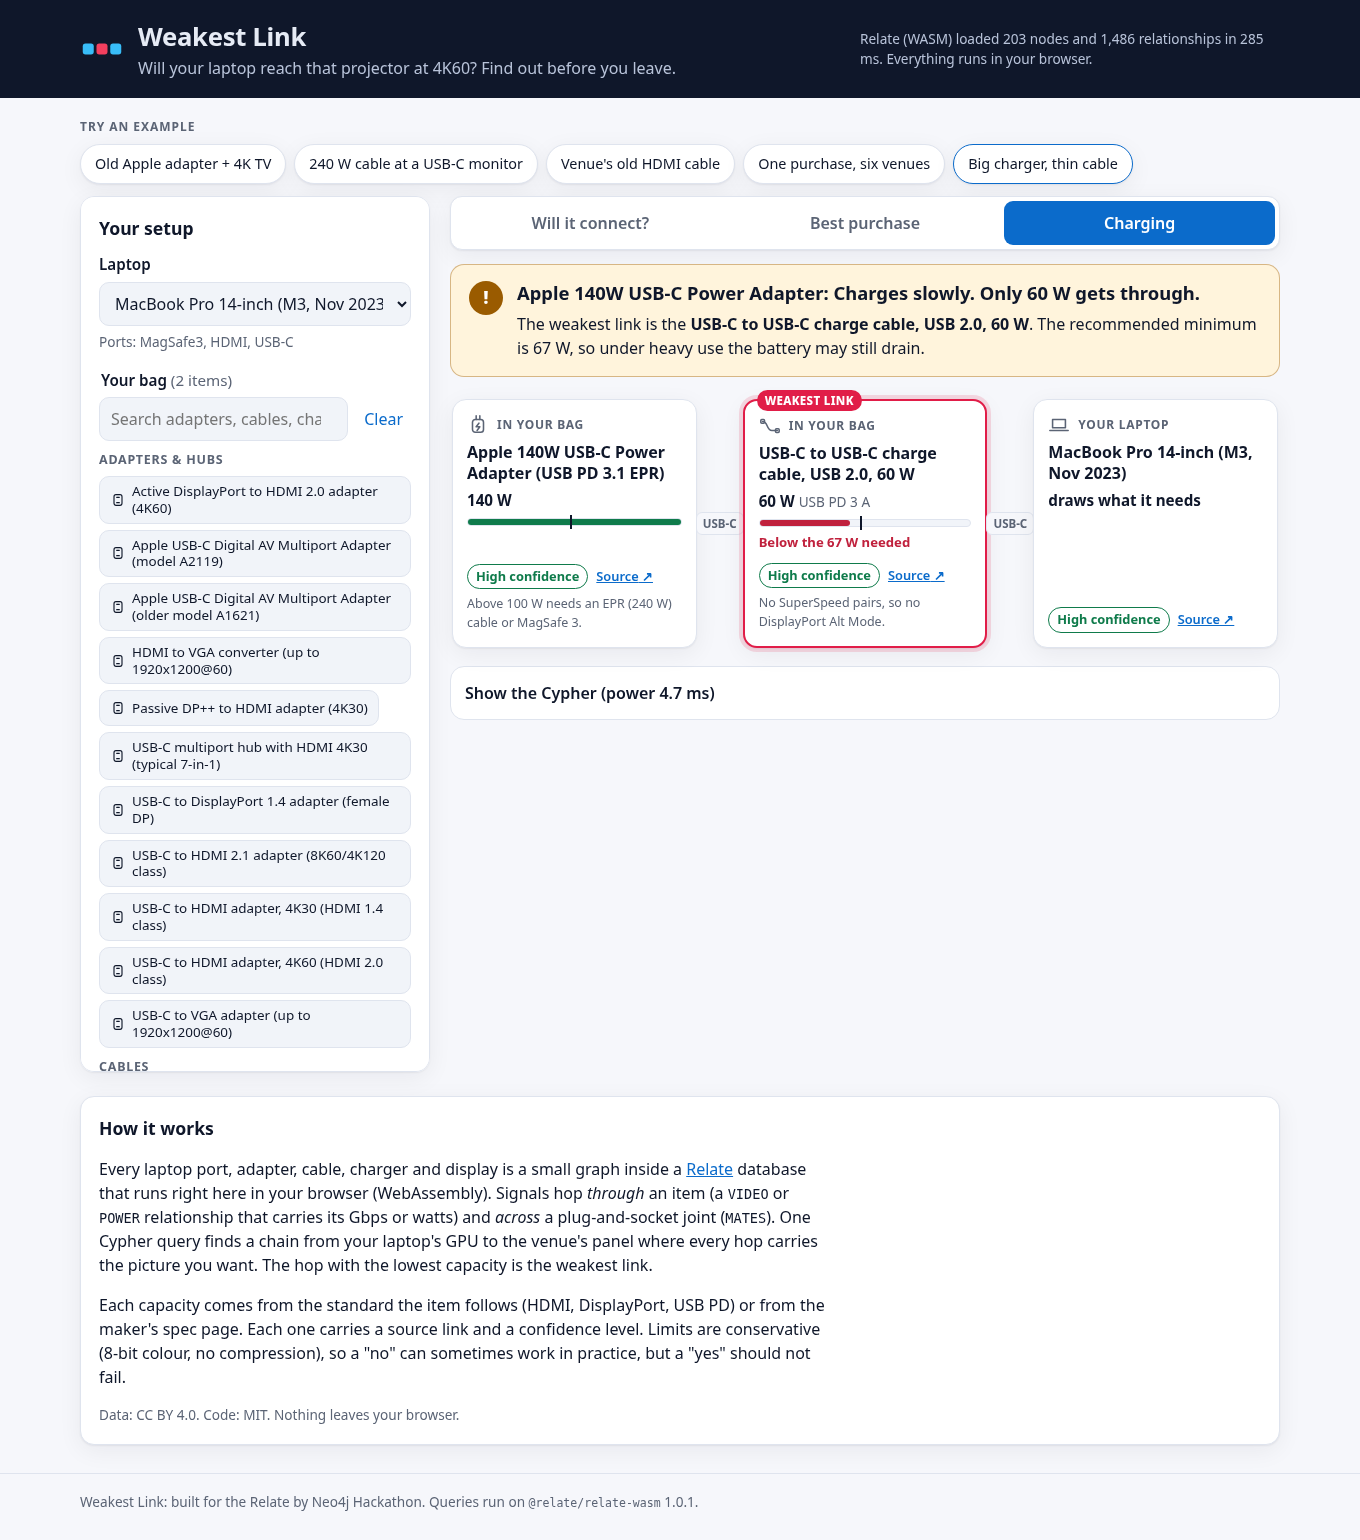
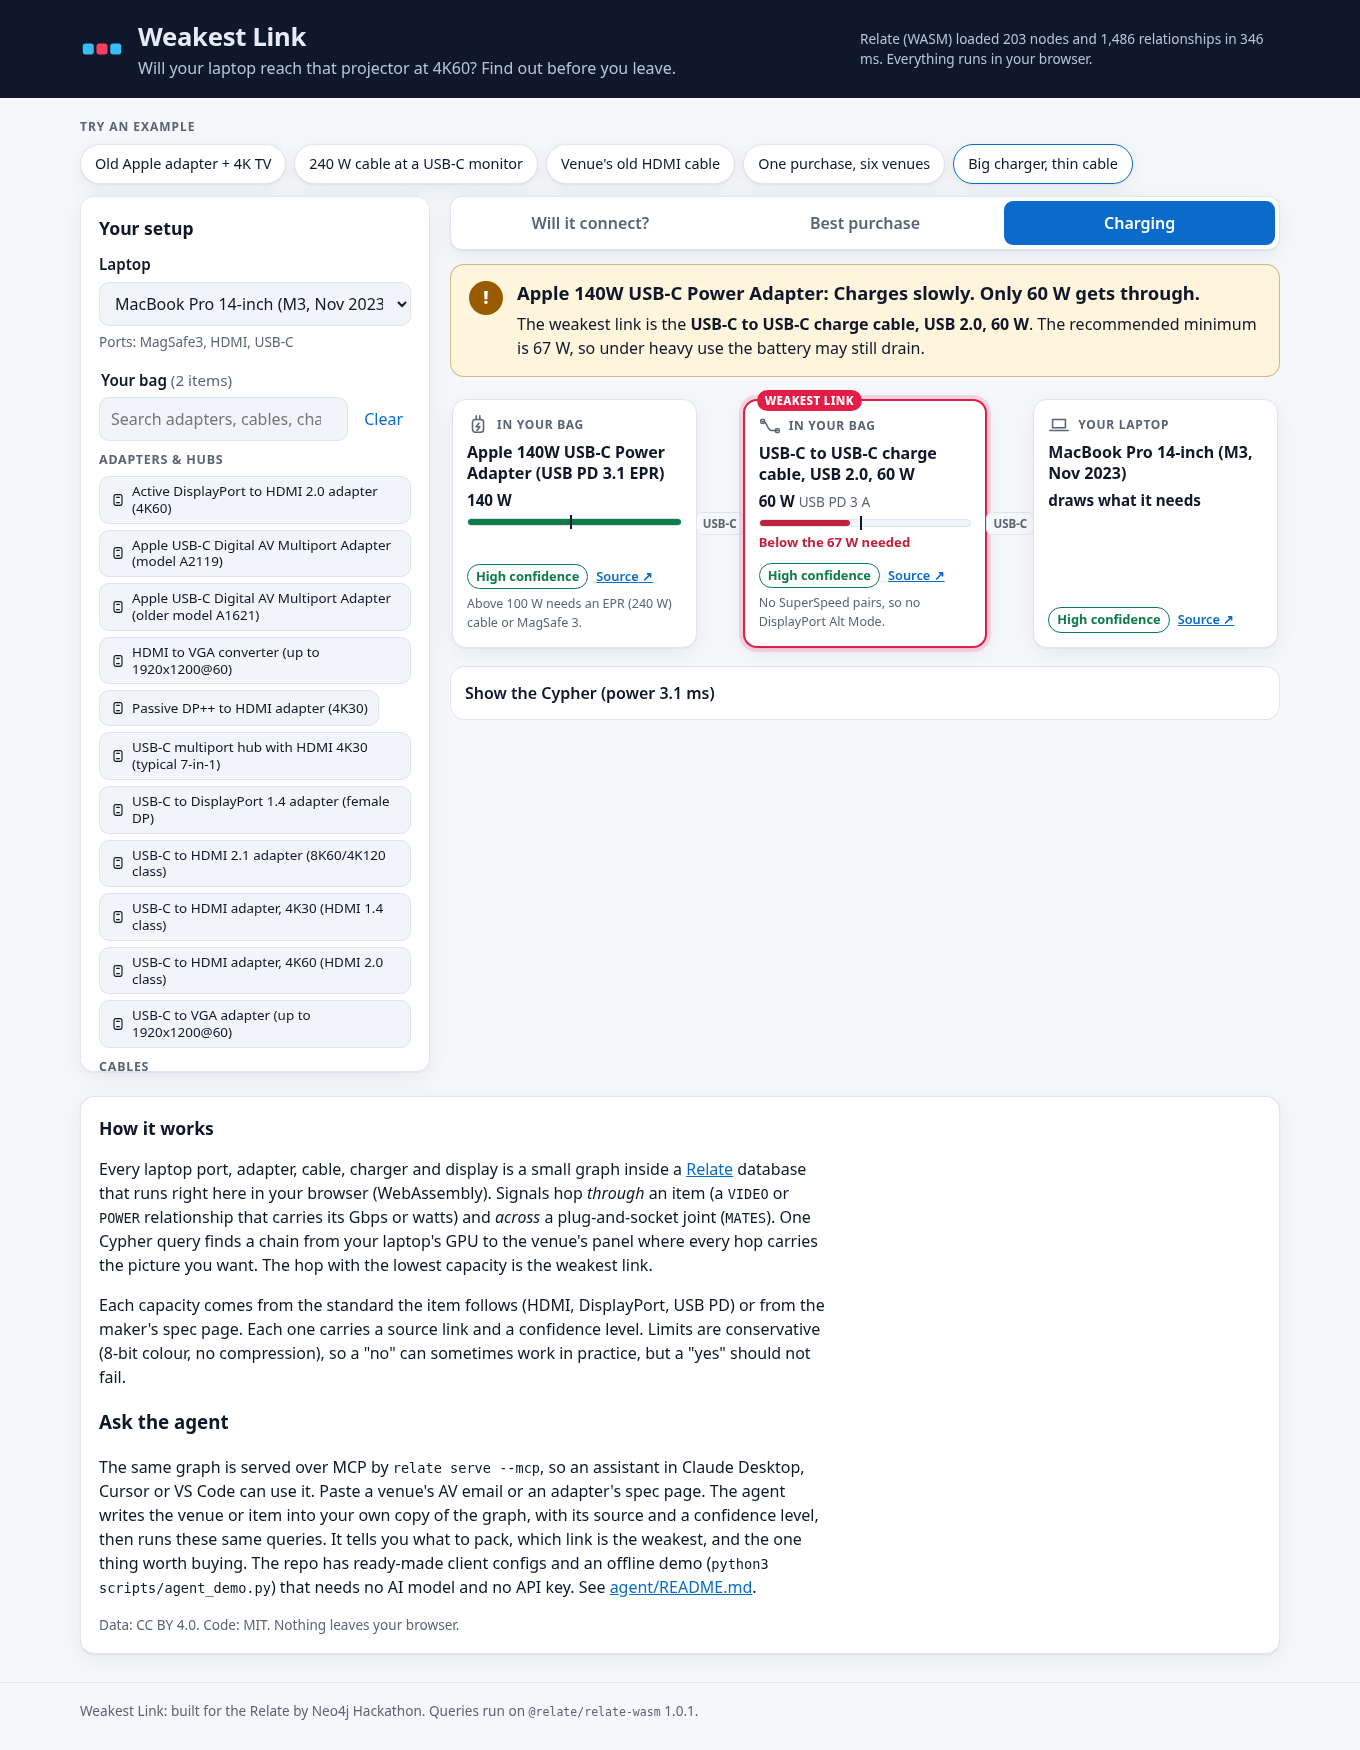
Ask the agent: README and UI How-it-works sections, schema notes for ingested data and recipes, npm agent scripts, CI template in deploy/

diff --git a/web/index.html b/web/index.html
@@ -99,6 +99,13 @@
       <p>Each capacity comes from the standard the item follows (HDMI, DisplayPort, USB PD) or from the maker's spec page.
         Each one carries a source link and a confidence level. Limits are conservative (8-bit colour, no compression), so a "no" can sometimes
         work in practice, but a "yes" should not fail.</p>
+      <h3 id="agent-h">Ask the agent</h3>
+      <p>The same graph is served over MCP by <code>relate serve --mcp</code>, so an assistant in Claude Desktop, Cursor or
+        VS Code can use it. Paste a venue's AV email or an adapter's spec page. The agent writes the venue or item into
+        your own copy of the graph, with its source and a confidence level, then runs these same queries. It tells you
+        what to pack, which link is the weakest, and the one thing worth buying. The repo has ready-made client configs and
+        an offline demo (<code>python3 scripts/agent_demo.py</code>) that needs no AI model and no API key. See
+        <a href="https://github.com/suganthikannan093-hue/weakest-link/blob/main/agent/README.md">agent/README.md</a>.</p>
       <p class="hint">Data: CC BY 4.0. Code: MIT. Nothing leaves your browser.</p>
     </section>
   </main>

diff --git a/README.md b/README.md
@@ -4,8 +4,8 @@ Find out before you leave whether your laptop will reach that projector at 4K60.
 see which adapter, cable or charger in your bag is the weakest link, and the one purchase that fixes
 the most venues.
 
-> Status: milestones 1 and 2 done (graph, cited dataset, queries, tests, browser UI). The "pack my
-> bag" agent is next, see [PLAN.md](PLAN.md).
+> Status: milestones 1–3 done (graph, cited dataset, queries, browser UI, and the "pack my bag" agent
+> over Relate MCP). See [PLAN.md](PLAN.md).
 
 ![The weakest link highlighted in a laptop-to-TV chain](docs/screenshots/desktop-connect-weakest-link.png)
 
@@ -44,7 +44,8 @@ question, with watts, answers "will this charger and cable fast-charge my laptop
 - **Relate features used:** quantified path patterns with inline predicates, `SHORTEST 1`,
   `reduce()` over relationships for the bottleneck, `all()` over path nodes, `EXISTS {}` and
   `CALL () {}` subqueries, pattern comprehensions, aggregation, indexes, `--fetch-params` JSON import,
-  and `relate serve --mcp` (`get_schema`, `read_cypher`) for the agent.
+  and `relate serve --mcp` for the agent: `get_schema` and `read_cypher` on the read-only catalog,
+  plus `write_cypher` on a writable copy that ingests venues and items from emails and spec pages.
 
 ## Setup and run
 
@@ -65,7 +66,7 @@ python3 scripts/wl.py best_fix --laptop mba-m2 --bag adp-apple-av-a1621 --venues
 python3 scripts/wl.py power  --laptop mbp14-m3 --bag chg-apple-140w,cable-usbc-usb2-60w
 python3 scripts/wl.py list   # every laptop, item and venue id
 
-# tests: 22 query tests on the .rl store, then CLI vs WASM parity
+# tests: 43 Python tests (22 queries on the .rl store, 21 agent/MCP flow), then CLI vs WASM parity
 python3 -m unittest -v
 npm install && node tests/wasm_parity.mjs
 
@@ -129,6 +130,43 @@ To deploy to GitHub Pages, copy [`deploy/github-pages.yml`](deploy/github-pages.
 hand (it is `workflow_dispatch` only). The Vite build uses relative paths (`base: './'`), so it works
 under `/weakest-link/`.
 
+## Ask the agent
+
+A "pack my bag" agent works over Relate's own MCP server, and no paid API is needed. Paste a venue's AV
+email or an adapter's spec page into Claude Desktop, Cursor, VS Code or Claude Code. The agent writes
+the venue or item into a writable copy of the graph, with its source and a confidence level, then runs
+`reach`, `chains`, `best_fix` and `power`. It says what to pack, which link is the weakest, and the one
+item to buy.
+
+- Two MCP servers via `scripts/mcp_server.py`: `catalog`, which is `relate serve --mcp stdio
+  --read-only` on the committed store, and `mybag`, a writable copy in `data/work/` that adds
+  `write_cypher`.
+- The vetted queries and the two single-statement ingest recipes are stored in the graph as
+  `:Recipe` nodes, so the model discovers them with `read_cypher` and fills in parameters instead of
+  writing Cypher.
+- Ready-made configs: `.cursor/mcp.json`, `.vscode/mcp.json`, `.mcp.json` (Claude Code) and
+  `agent/clients/claude_desktop_config.json`. Prompts are in `agent/prompts/`, and a self-contained
+  skill is in `agent/skills/pack-my-bag/`.
+
+```bash
+python3 scripts/agent_demo.py            # offline, deterministic: ingest an email + a spec page, query, recommend
+python3 scripts/agent_demo.py --pace 2   # slower, for filming
+python3 scripts/agent_demo.py --json     # for CI
+python3 -m unittest tests.test_agent_mcp # 21 MCP flow tests
+```
+
+```
+[2] Read the venue's email and write it into the graph
+    extracted: Riverside Library, Room 2 | … projector | best picture 1080p60 | inputs HDMI (HDMI-1.4, low), VGA (VGA-1200p, medium) | leaves out: cable-hdmi-standard
+    -> my-bag.write_cypher  recipe ingest_venue, $v = {id: 'riverside-library-room-2', …}
+[6] Answer
+    At Riverside Library, Room 2 your current bag only reaches 720p at 60 Hz (the display can do 1080p (Full HD) at 60 Hz).
+    The weakest link is Standard HDMI cable (Category 1, 720p/1080i) at 1.782 Gbps (HDMI-Standard-cable, medium confidence, …).
+    Buy one thing: USB-C to HDMI cable, 4K60 (HDMI 2.0 class). It makes 1080p (Full HD) at 60 Hz work at 2 more venues …
+```
+
+Setup for each client, the safety model and the limits are in [agent/README.md](agent/README.md).
+
 ## Where the data lives
 
 - `data/weakest-link.rl`: the persistent Relate store (single file). Inspect it with
@@ -143,4 +181,5 @@ under `/weakest-link/`.
 - Code: MIT ([LICENSE](LICENSE)). Dataset (`data/`): CC BY 4.0 ([data/LICENSE](data/LICENSE)).
 - Relate (`relate` CLI, `@relate/relate-wasm`) is Apache-2.0 and is used as a dependency.
 - AI-assisted development: an AI coding agent helped write the build script, queries, web UI,
-  tests and docs. Every spec value was checked against the cited source pages.
+  agent, tests and docs. The agent itself needs no AI service: it runs in your own MCP host, or offline
+  in the demo. Every spec value was checked against the cited source pages.

diff --git a/PLAN.md b/PLAN.md
@@ -13,7 +13,7 @@ covered below.
 |---|---|---|---|
 | 1 | 15 Nov | **Graph and data.** Schema, 46 cited items, build to `.rl` with the CLI, queries `reach`, `chains`, `best_fix` and `power`, 22 tests, WASM parity | ✅ done |
 | 2 | 16–21 Nov | **Web UI** (static, `@relate/relate-wasm` in the browser). Bag builder (search items), venue picker plus "describe your venue", chain graph view with the weakest link highlighted, a citation and confidence chip on every link, a mode ladder (720p→4K60), charging panel, best-fix card | ✅ done: Vite static site, custom display written into the in-browser graph, best purchase across chosen venues, 22 Playwright tests (desktop + mobile, axe), screenshots in `docs/screenshots/`, manual-only Pages workflow in `deploy/` |
-| 3 | 22–27 Nov | **"Pack my bag" agent over MCP.** `relate serve --mcp` on the catalog (`get_schema`, `read_cypher`) plus a writable per-user store for `write_cypher`. Prompts and a skill file: paste a venue tech-requirements email or an adapter spec → the agent writes `Venue`/`Item` nodes with `confidence:'user'` → runs the four queries → answers with what to pack and why. Works in any MCP host, with no paid API in the repo | Scripted demo transcript, plus a test that replays an email through MCP |
+| 3 | 22–27 Nov | **"Pack my bag" agent over MCP.** `relate serve --mcp` on the catalog (`get_schema`, `read_cypher`) plus a writable per-user store for `write_cypher`. Prompts and a skill file: paste a venue tech-requirements email or an adapter spec → the agent writes `Venue`/`Item` nodes with `confidence:'user'` → runs the four queries → answers with what to pack and why. Works in any MCP host, with no paid API in the repo | ✅ done: `scripts/mcp_server.py` (read-only catalog + writable my-bag with `:Recipe` nodes), single-statement `ingest_venue`/`ingest_item`, prompts + `pack-my-bag` skill, configs for Cursor/VS Code/Claude Code/Claude Desktop, offline `scripts/agent_demo.py`, 21 MCP tests |
 | 4 | 28 Nov–2 Dec | **Data depth and accuracy.** Grow to ~80 items: more common laptops, docks, popular named adapters and projectors. Second-source check on every `medium` edge. Add a `best_fix` for charging, more venue scenarios, and a `--strict` mode that excludes low-confidence edges. Model DSC/4K120 only if well documented | Every edge cited, the medium-confidence count goes down, tests still green |
 | 5 | 3–6 Dec | **Docs and demo.** README with screenshots and a graph image, architecture diagram, "how the query works" walkthrough. Demo video **≤ 2 min**: problem → bag → weakest link → one fix → agent reads a venue email | Video uploaded unlisted for review, captions checked |
 | 6 | 7–9 Dec | **Review and launch prep.** Owner review, make the repo public, add topics, run a fresh-clone check of the README steps, prepare the Devpost draft (description, capabilities and AI-use statement) | Owner approves. Submit only on the owner's go-ahead |

diff --git a/docs/SCHEMA.md b/docs/SCHEMA.md
@@ -61,5 +61,11 @@ second cable. The availability predicates (`item IN have`) and the bandwidth pre
 ## Ownership is a query parameter, not data
 
 What the user owns (`$bag`) is passed in on each query. The store holds the shared, cited catalog and
-the venues, so one committed store serves every user. The agent milestone adds per-user state
-(saved bags, venues ingested from email) in a separate writable store.
+the venues, so one committed store serves every user. Per-user state lives in a separate writable
+store (`data/work/my-bag.rl`, a git-ignored copy) that the agent writes through MCP:
+
+- Venues and items ingested from emails or spec pages get `ingested: true`, `class: 'ingested'`, a
+  `confidence`, and a `CITES` link to a `Source` (`kind: email | manufacturer | …`, `supports` = the
+  quoted sentences). Their `VIDEO`/`POWER` edges carry the same `source`, `source_url` and `confidence`.
+- `:Recipe {name, kind, description, example_params, cypher, file}` holds the vetted read queries and
+  write statements, so an MCP host can discover them with `read_cypher`.
